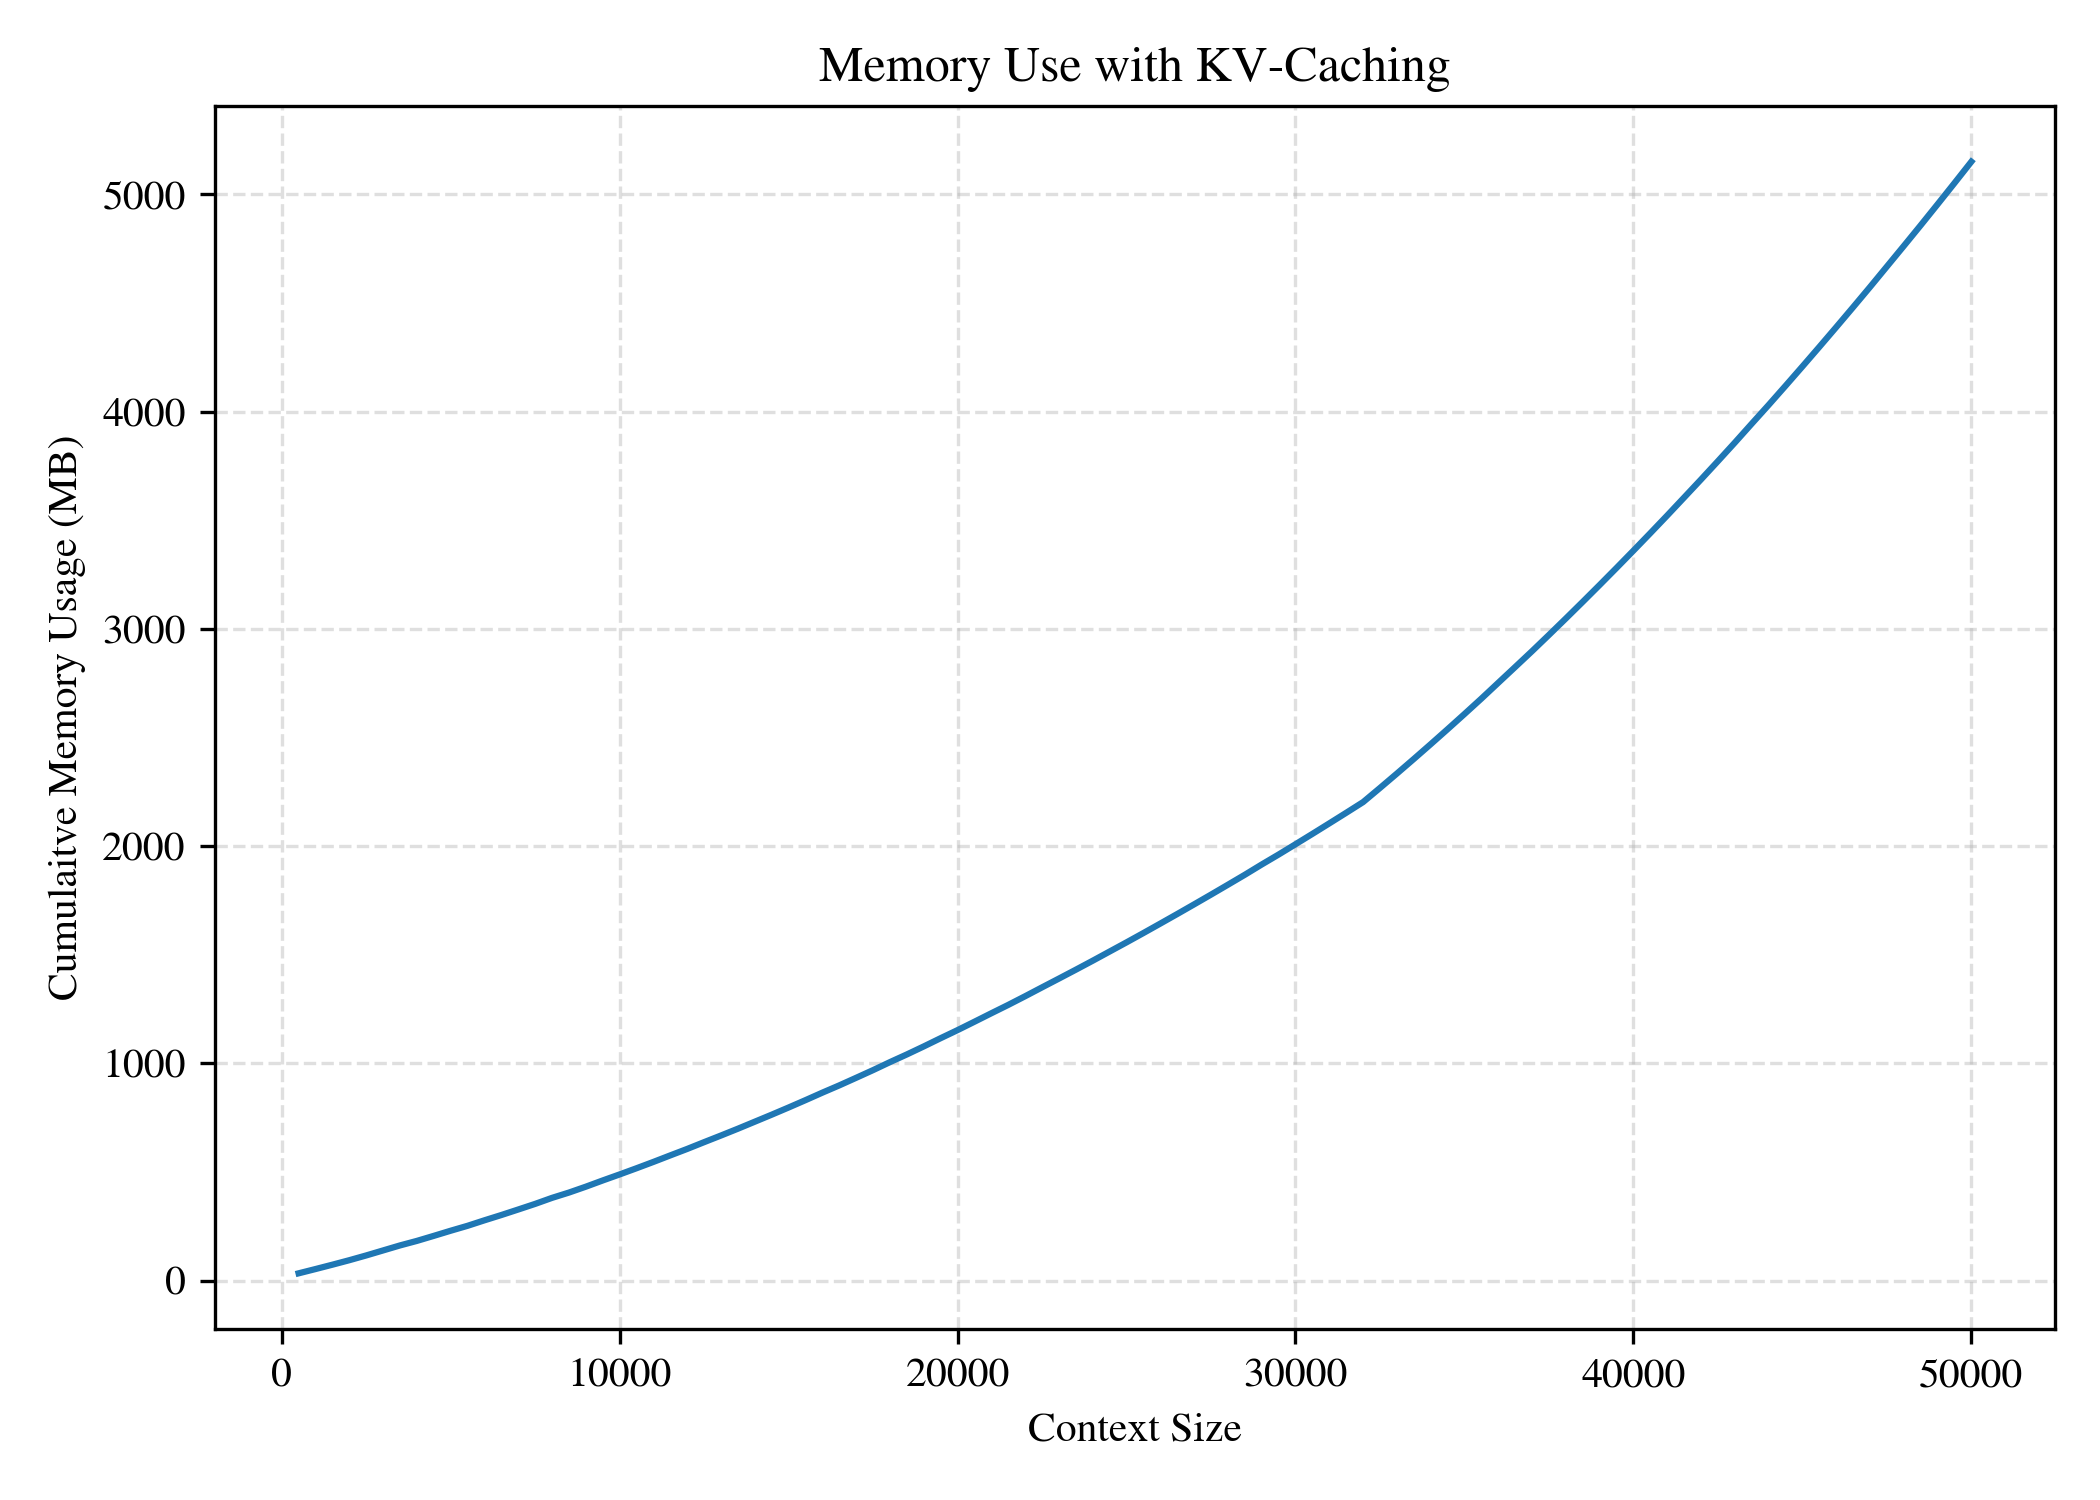
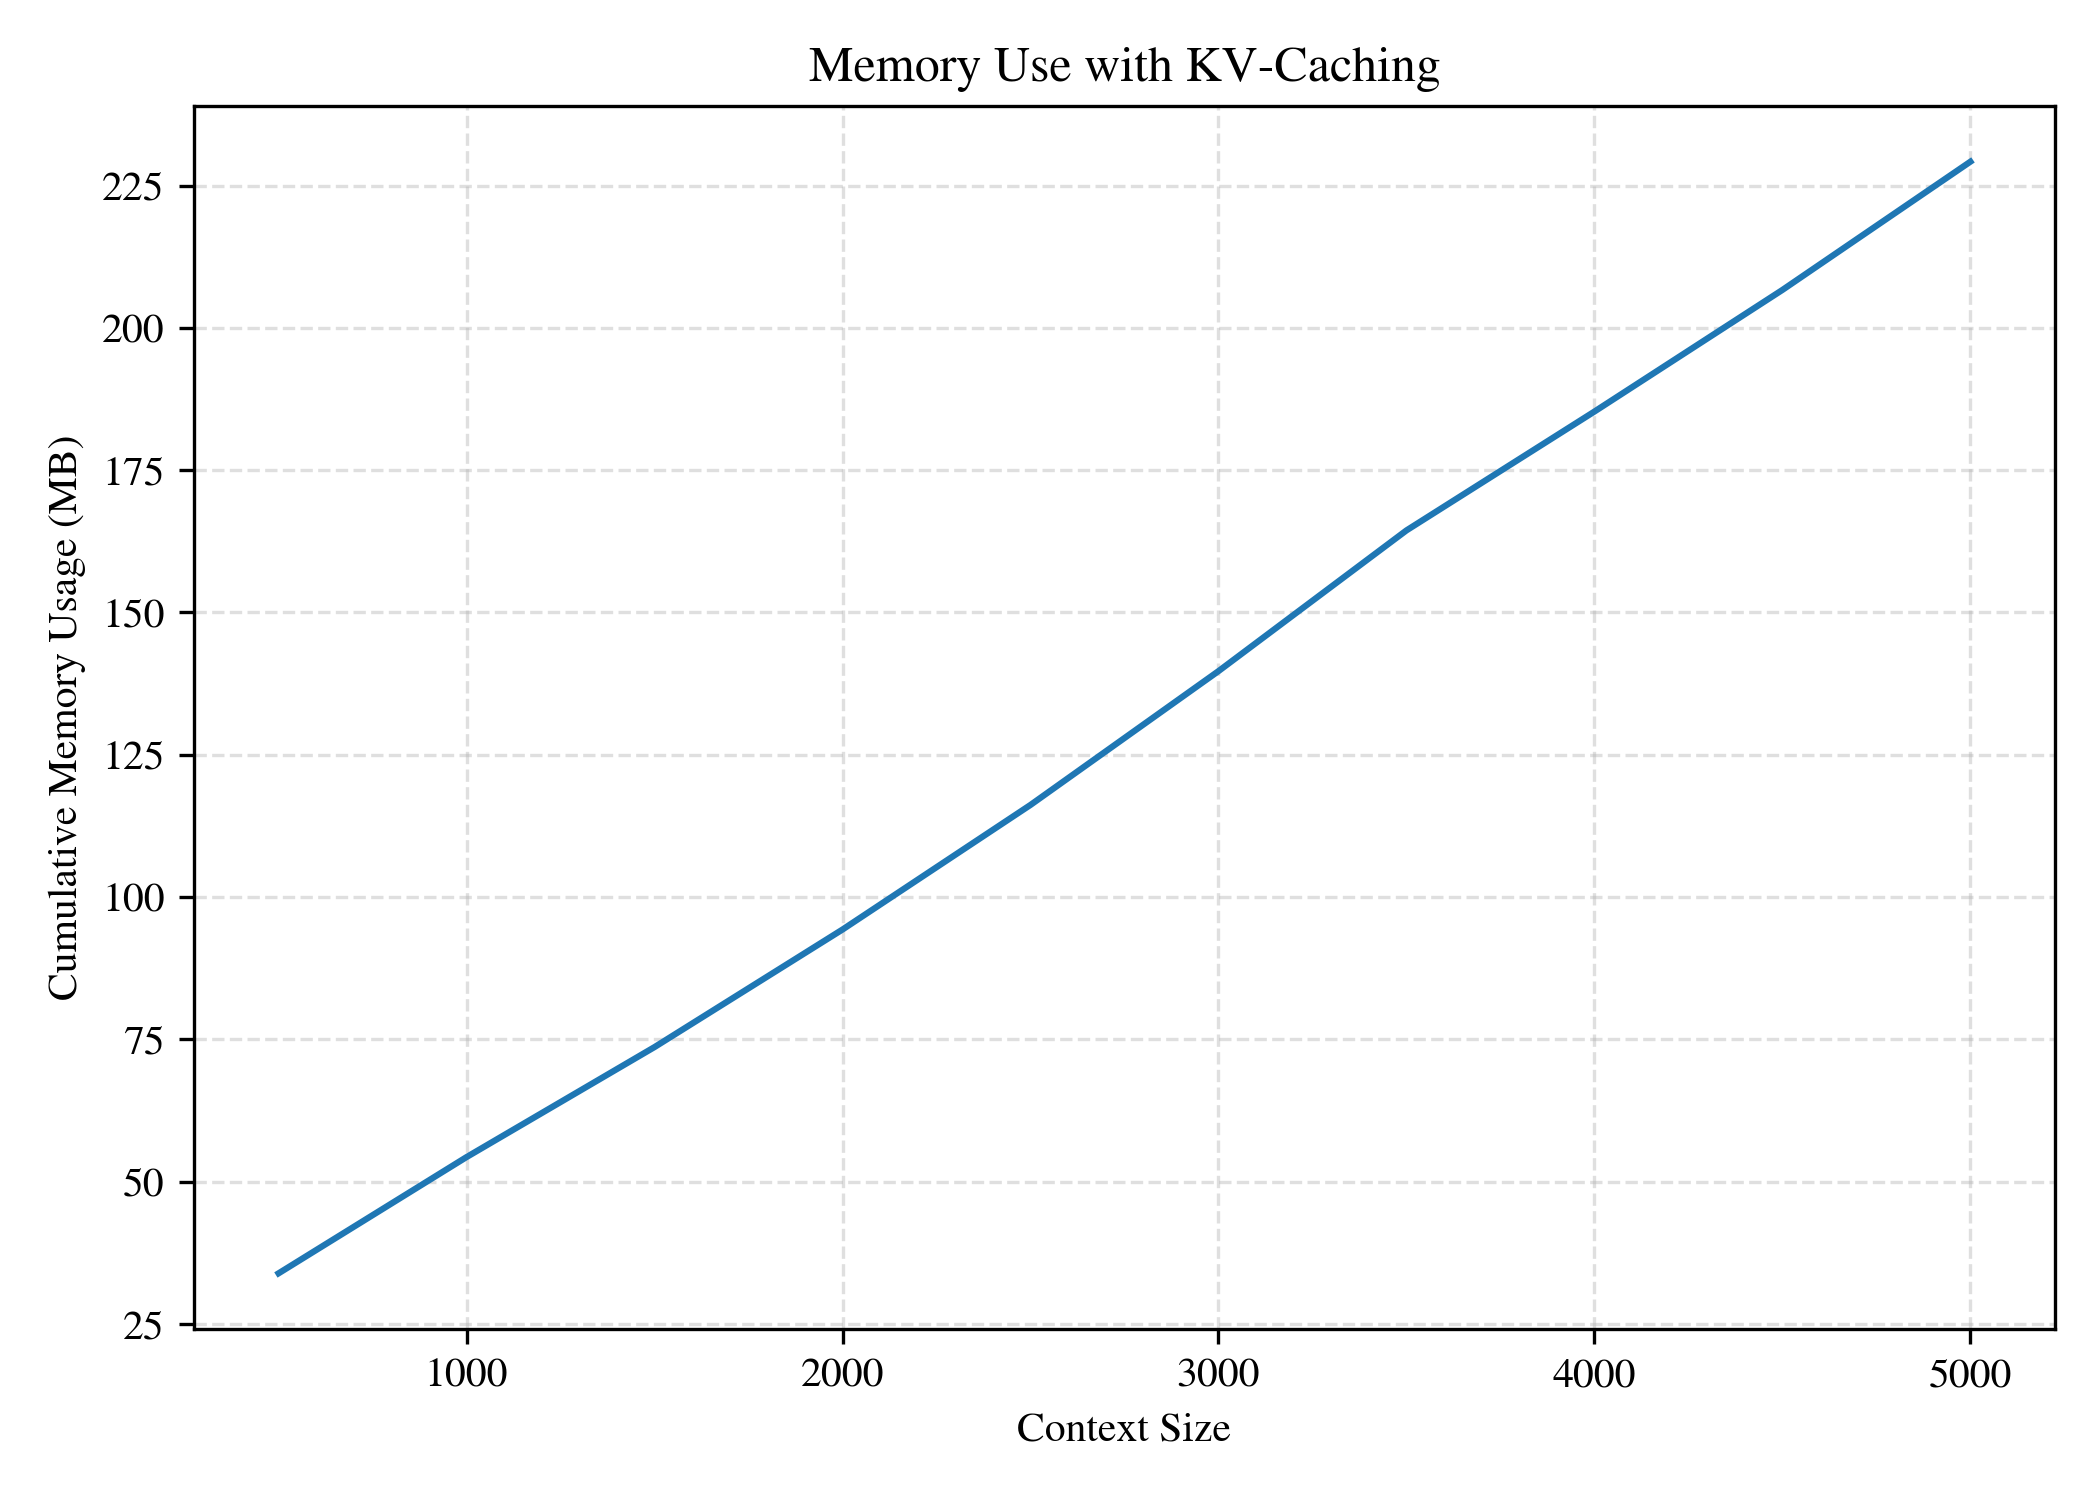
Plots

diff --git a/experiments/kv_cache_plots.py b/experiments/kv_cache_plots.py
@@ -63,7 +63,7 @@ def measure_condition_time_memory_kv():
     burn_in = 1 # Number of burn in runs to ignore
     aggregate_over = 3 # Number of runs to aggregate data over
     token_step = 500 # How many increments of tokens to go up in
-    max_nc, dx, dy, m = 50_000, 1, 1, 1
+    max_nc, dx, dy, m = 5_000, 1, 1, 1
     max_high = 2
     xcs = (torch.rand((1, max_nc, dx), device=device) * max_high * 2) - max_high
     ycs = (torch.rand((1, max_nc, dy), device=device) * max_high * 2) - max_high
@@ -142,7 +142,7 @@ def measure_condition_time_memory_kv():
 
 # Measures the conditioning time for the model
 @torch.no_grad
-def compare_kv_against_none(strategy="fixed"):
+def compare_kv_against_none(strategy="fixed", targets=128):
     assert strategy in {"fixed", "scale"}, "Invalid strategy"
     # Gets model
     device='cuda'
@@ -152,8 +152,8 @@ def compare_kv_against_none(strategy="fixed"):
     burn_in = 1 # Number of burn in runs to ignore
     aggregate_over = 2 # Number of runs to aggregate data over
     token_step = 500 # How many increments of tokens to go up in
-    max_nc, dx, dy, m = 50_000, 1, 1, 1
-    nt = 128 if strategy == "fixed" else max_nc
+    max_nc, dx, dy, m = 5_000, 1, 1, 1
+    nt = targets if strategy == "fixed" else max_nc
     max_high = 2
     xcs = (torch.rand((1, max_nc, dx), device=device) * max_high * 2) - max_high
     ycs = (torch.rand((1, max_nc, dy), device=device) * max_high * 2) - max_high
@@ -271,11 +271,11 @@ def compare_kv_against_none(strategy="fixed"):
     Memory Cumulative No KV (Mb): {memory_no_kv}
     """
     print(summary_block)
-    with open('experiments/plot_results/kv/' + 'comparison_kv_vs_none.txt', 'w') as file_object:
+    with open('experiments/plot_results/kv/' + f'comparison_kv_vs_none_{strategy}-{targets}.txt', 'w') as file_object:
         file_object.write(summary_block)
 
     # Plots runtime results
-    runtime_file_name = f'experiments/plot_results/kv/kv_without_runtime_{strategy}.png'
+    runtime_file_name = f'experiments/plot_results/kv/kv_without_runtime_{strategy}_{targets}.png'
     fig, ax = plt.subplots(figsize=(7, 5))
     ax.plot(upper_ctxs, runtime_no_kv, label='No Caching')
     ax.plot(upper_ctxs, runtime_kv, label='KV Caching (Condition + Query)')
@@ -291,16 +291,16 @@ def compare_kv_against_none(strategy="fixed"):
     plt.savefig(runtime_file_name, dpi=300)
 
     # Plots memory
-    memory_file_name = f'experiments/plot_results/kv/kv_without_memory_{strategy}.png'
+    memory_file_name = f'experiments/plot_results/kv/kv_without_memory_{strategy}_{targets}.png'
     fig, ax = plt.subplots(figsize=(7, 5))
-    ax.plot(upper_ctxs, memory_kv, label='No Caching')
-    ax.plot(upper_ctxs, memory_no_kv, label='KV Caching (Condition + Query)')
+    ax.plot(upper_ctxs, memory_no_kv, label='No Caching')
+    ax.plot(upper_ctxs, memory_kv, label='KV Caching (Condition + Query)')
     ax.set_xlabel('Context Size')
     ax.set_ylabel('Cumulative Memory Usage (MB)')
     ax.set_title(f'Memory Usage as Context Size Increases ({tit_text})')
     ax.legend()
     tit_text = f'NT={nt}' if strategy == "fixed" else 'NT=NC'
-    ax.set_title(f'Runtime as Context Size Increases ({tit_text})')
+    ax.set_title(f'Memory Usage as Context Size Increases ({tit_text})')
     ax.grid(True, linestyle='--', alpha=0.4)
     fig.tight_layout()
     plt.savefig(memory_file_name, dpi=300)
@@ -310,6 +310,10 @@ def compare_kv_against_none(strategy="fixed"):
 
 if __name__ == "__main__":
     #test_kv_cache()
-    #measure_condition_time_memory_kv()
-    compare_kv_against_none(strategy="fixed")
+    measure_condition_time_memory_kv()
+    compare_kv_against_none(strategy="fixed", targets=128)
     compare_kv_against_none(strategy="scale")
+    compare_kv_against_none(strategy="fixed", targets=512)
+    compare_kv_against_none(strategy="fixed", targets=2048)
+    compare_kv_against_none(strategy="fixed", targets=10_000)
+    compare_kv_against_none(strategy="fixed", targets=100_000)
